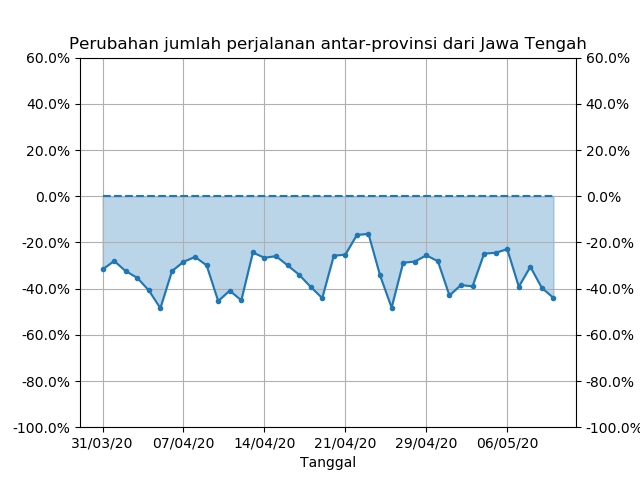
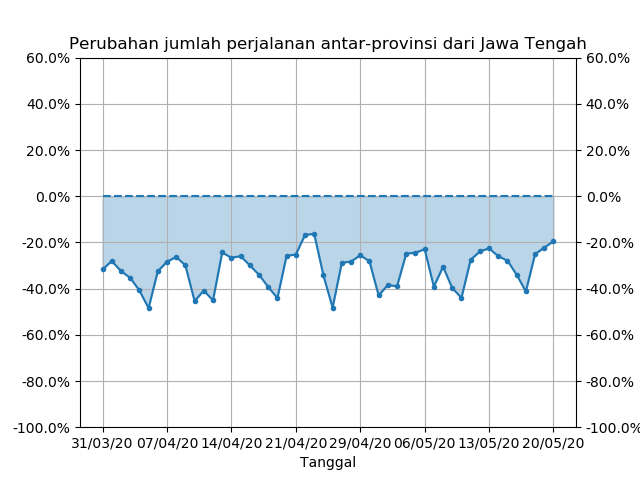
Mobility

diff --git a/idcovid19-mobility.md b/idcovid19-mobility.md
@@ -6,34 +6,34 @@ permalink: /idcovid19-mobility/
 ---
 
 Sumber data: [Facebook GeoInsight](https://www.facebook.com/geoinsights-portal/) dan [Indonesia GeoJSON](https://github.com/superpikar/indonesia-geojson) <br/>
-Diperbarui pada: 11/05/2020<br/>
+Diperbarui pada: 22/05/2020<br/>
 
 #### DKI Jakarta
 
-Rata-rata 10 hari terakhir: \\(\left(-53.7\pm 9.7\right)\%\\)
+Rata-rata 10 hari terakhir: \\(\left(-41.3\pm 5.9\right)\%\\)
 
 <img title="DKI Jakarta" src="{{ site.baseurl }}/assets/idcovid19-mobility/antar-provinsi_dari_dki_jakarta.png" width="50%"/>
 
 #### Jawa Barat
 
-Rata-rata 10 hari terakhir: \\(\left(-52.6\pm 9.9\right)\%\\)
+Rata-rata 10 hari terakhir: \\(\left(-40.9\pm 5.6\right)\%\\)
 
 <img title="Jawa Barat" src="{{ site.baseurl }}/assets/idcovid19-mobility/antar-provinsi_dari_jawa_barat.png" width="50%"/>
 
 #### Jawa Timur
 
-Rata-rata 10 hari terakhir: \\(\left(-22.5\pm 5.3\right)\%\\)
+Rata-rata 10 hari terakhir: \\(\left(-15.1\pm 4.4\right)\%\\)
 
 <img title="Jawa Timur" src="{{ site.baseurl }}/assets/idcovid19-mobility/antar-provinsi_dari_jawa_timur.png" width="50%"/>
 
 #### Sulawesi Selatan
 
-Rata-rata 10 hari terakhir: \\(\left(-42.2\pm 7.3\right)\%\\)
+Rata-rata 10 hari terakhir: \\(\left(-35.2\pm 12.8\right)\%\\)
 
 <img title="Sulawesi Selatan" src="{{ site.baseurl }}/assets/idcovid19-mobility/antar-provinsi_dari_sulawesi_selatan.png" width="50%"/>
 
 #### Jawa Tengah
 
-Rata-rata 10 hari terakhir: \\(\left(-34.6\pm 7.7\right)\%\\)
+Rata-rata 10 hari terakhir: \\(\left(-27.0\pm 6.0\right)\%\\)
 
 <img title="Jawa Tengah" src="{{ site.baseurl }}/assets/idcovid19-mobility/antar-provinsi_dari_jawa_tengah.png" width="50%"/>
